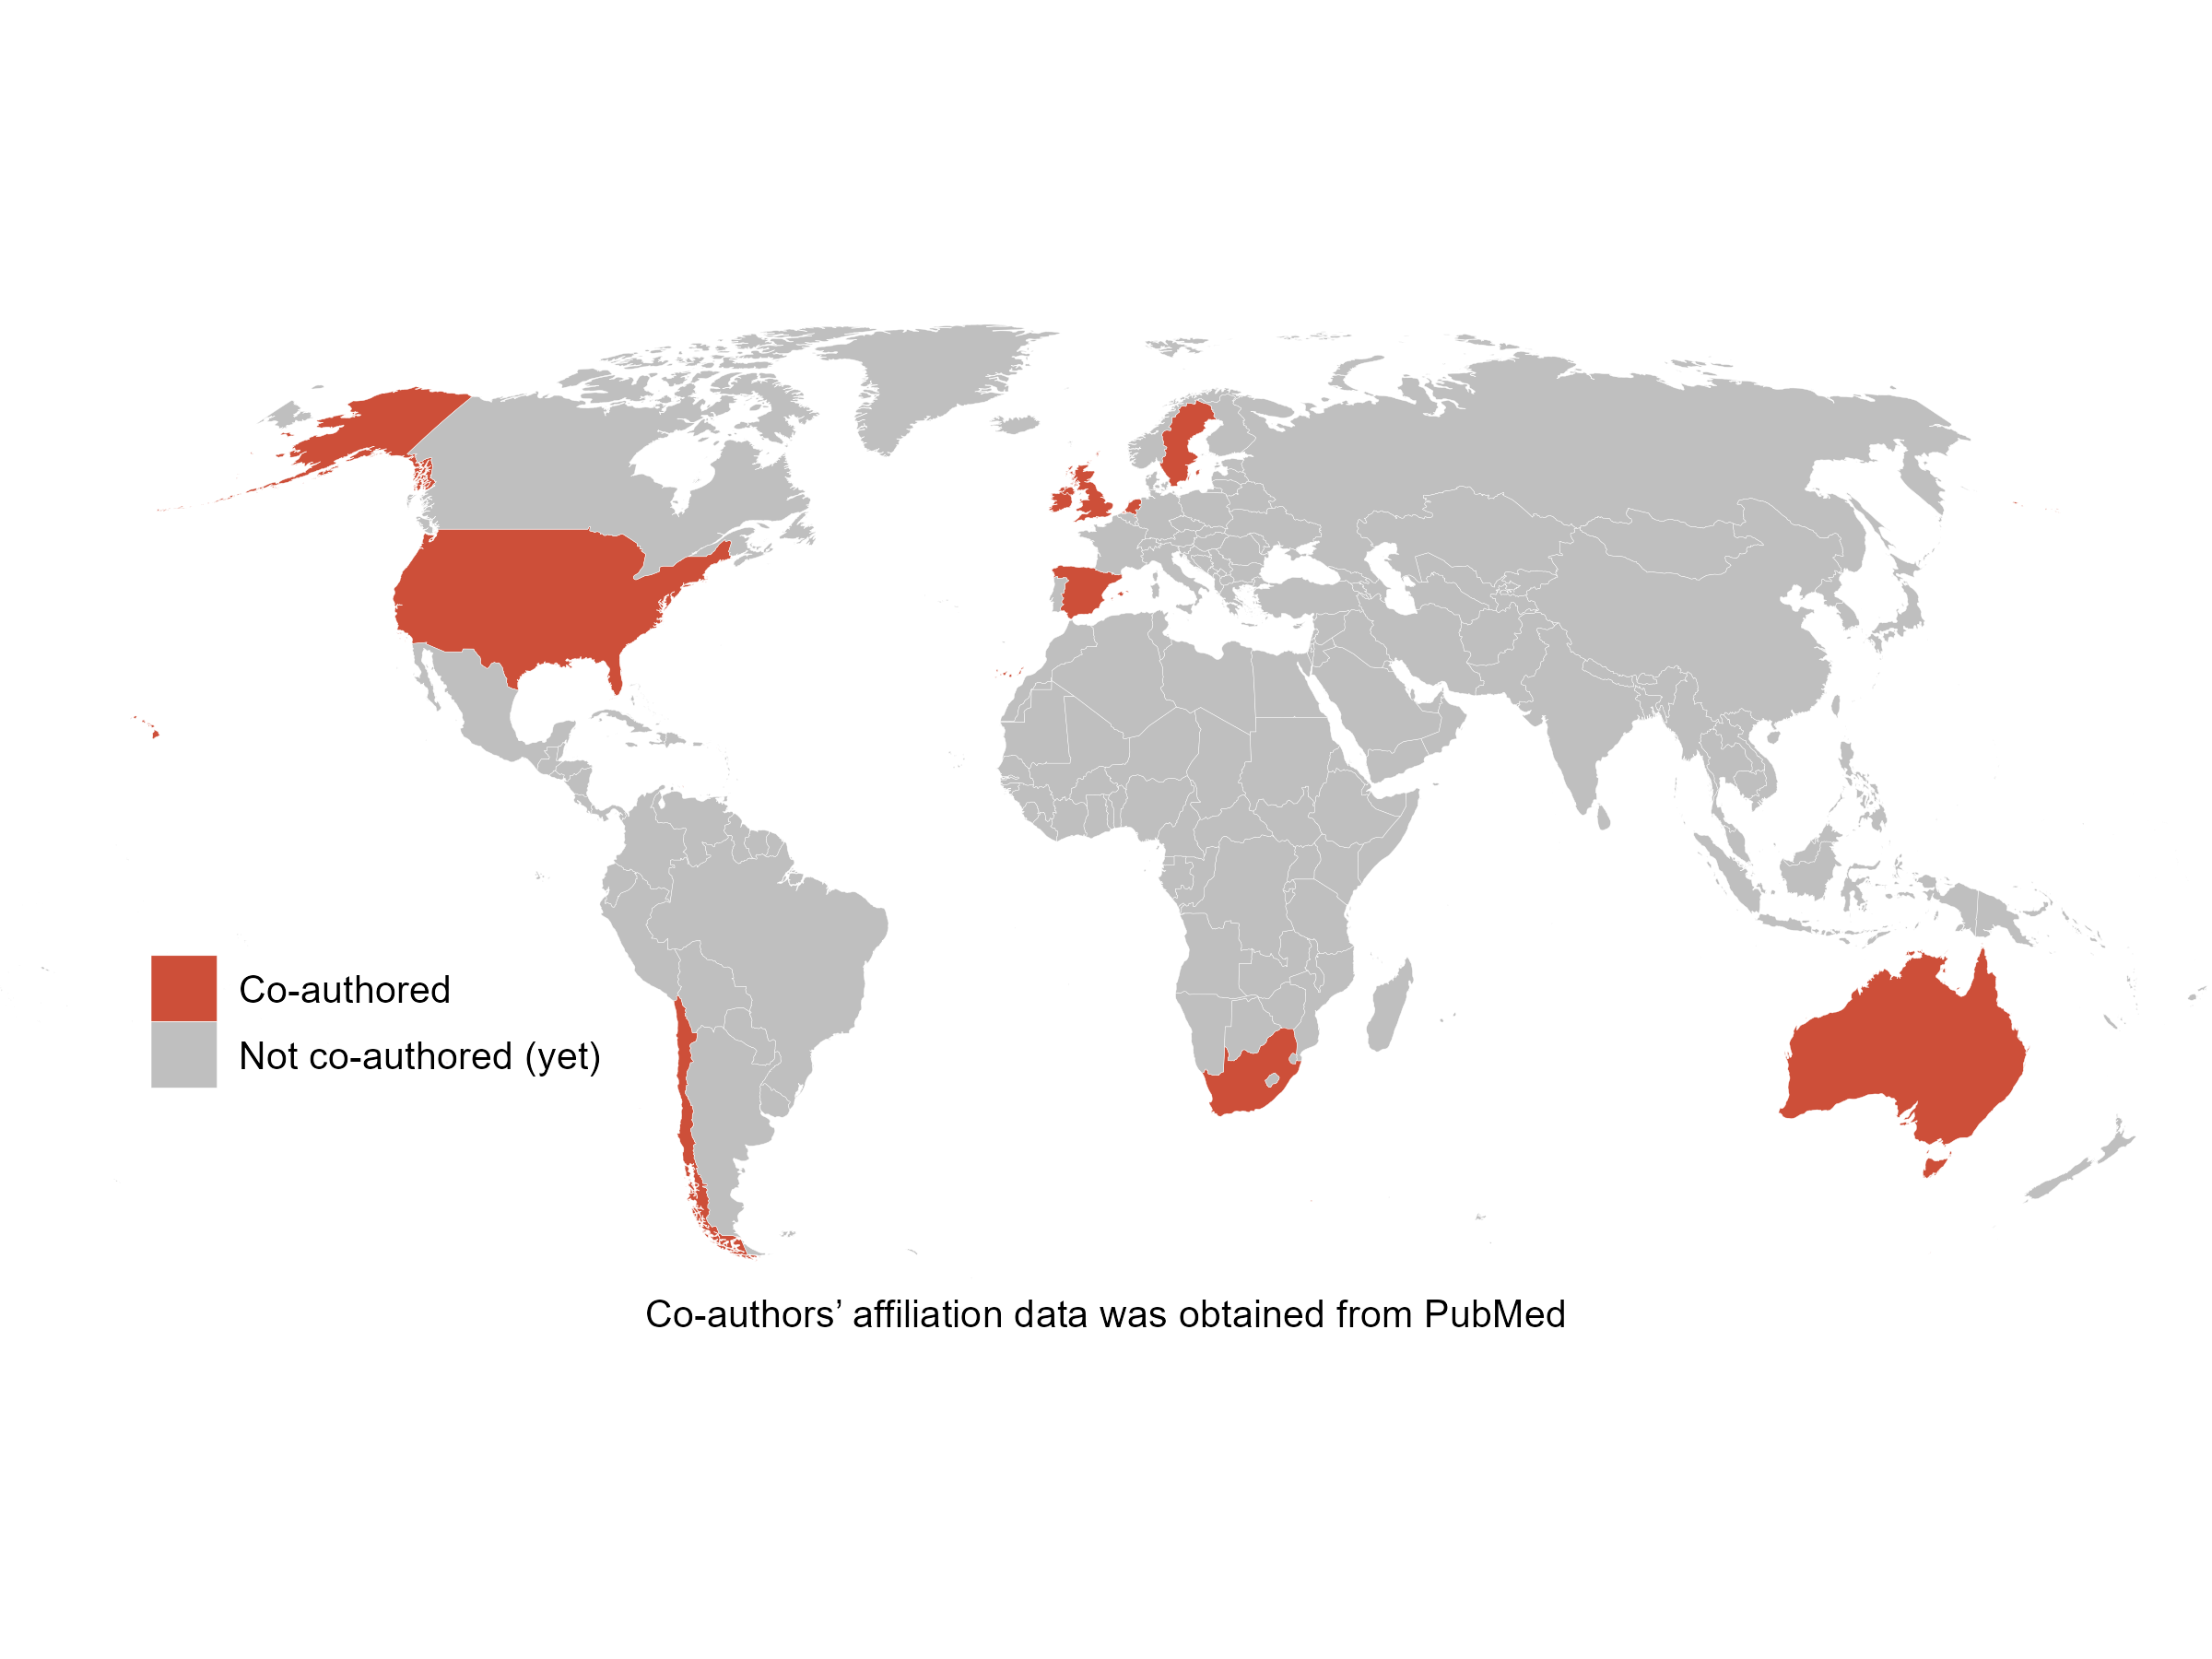
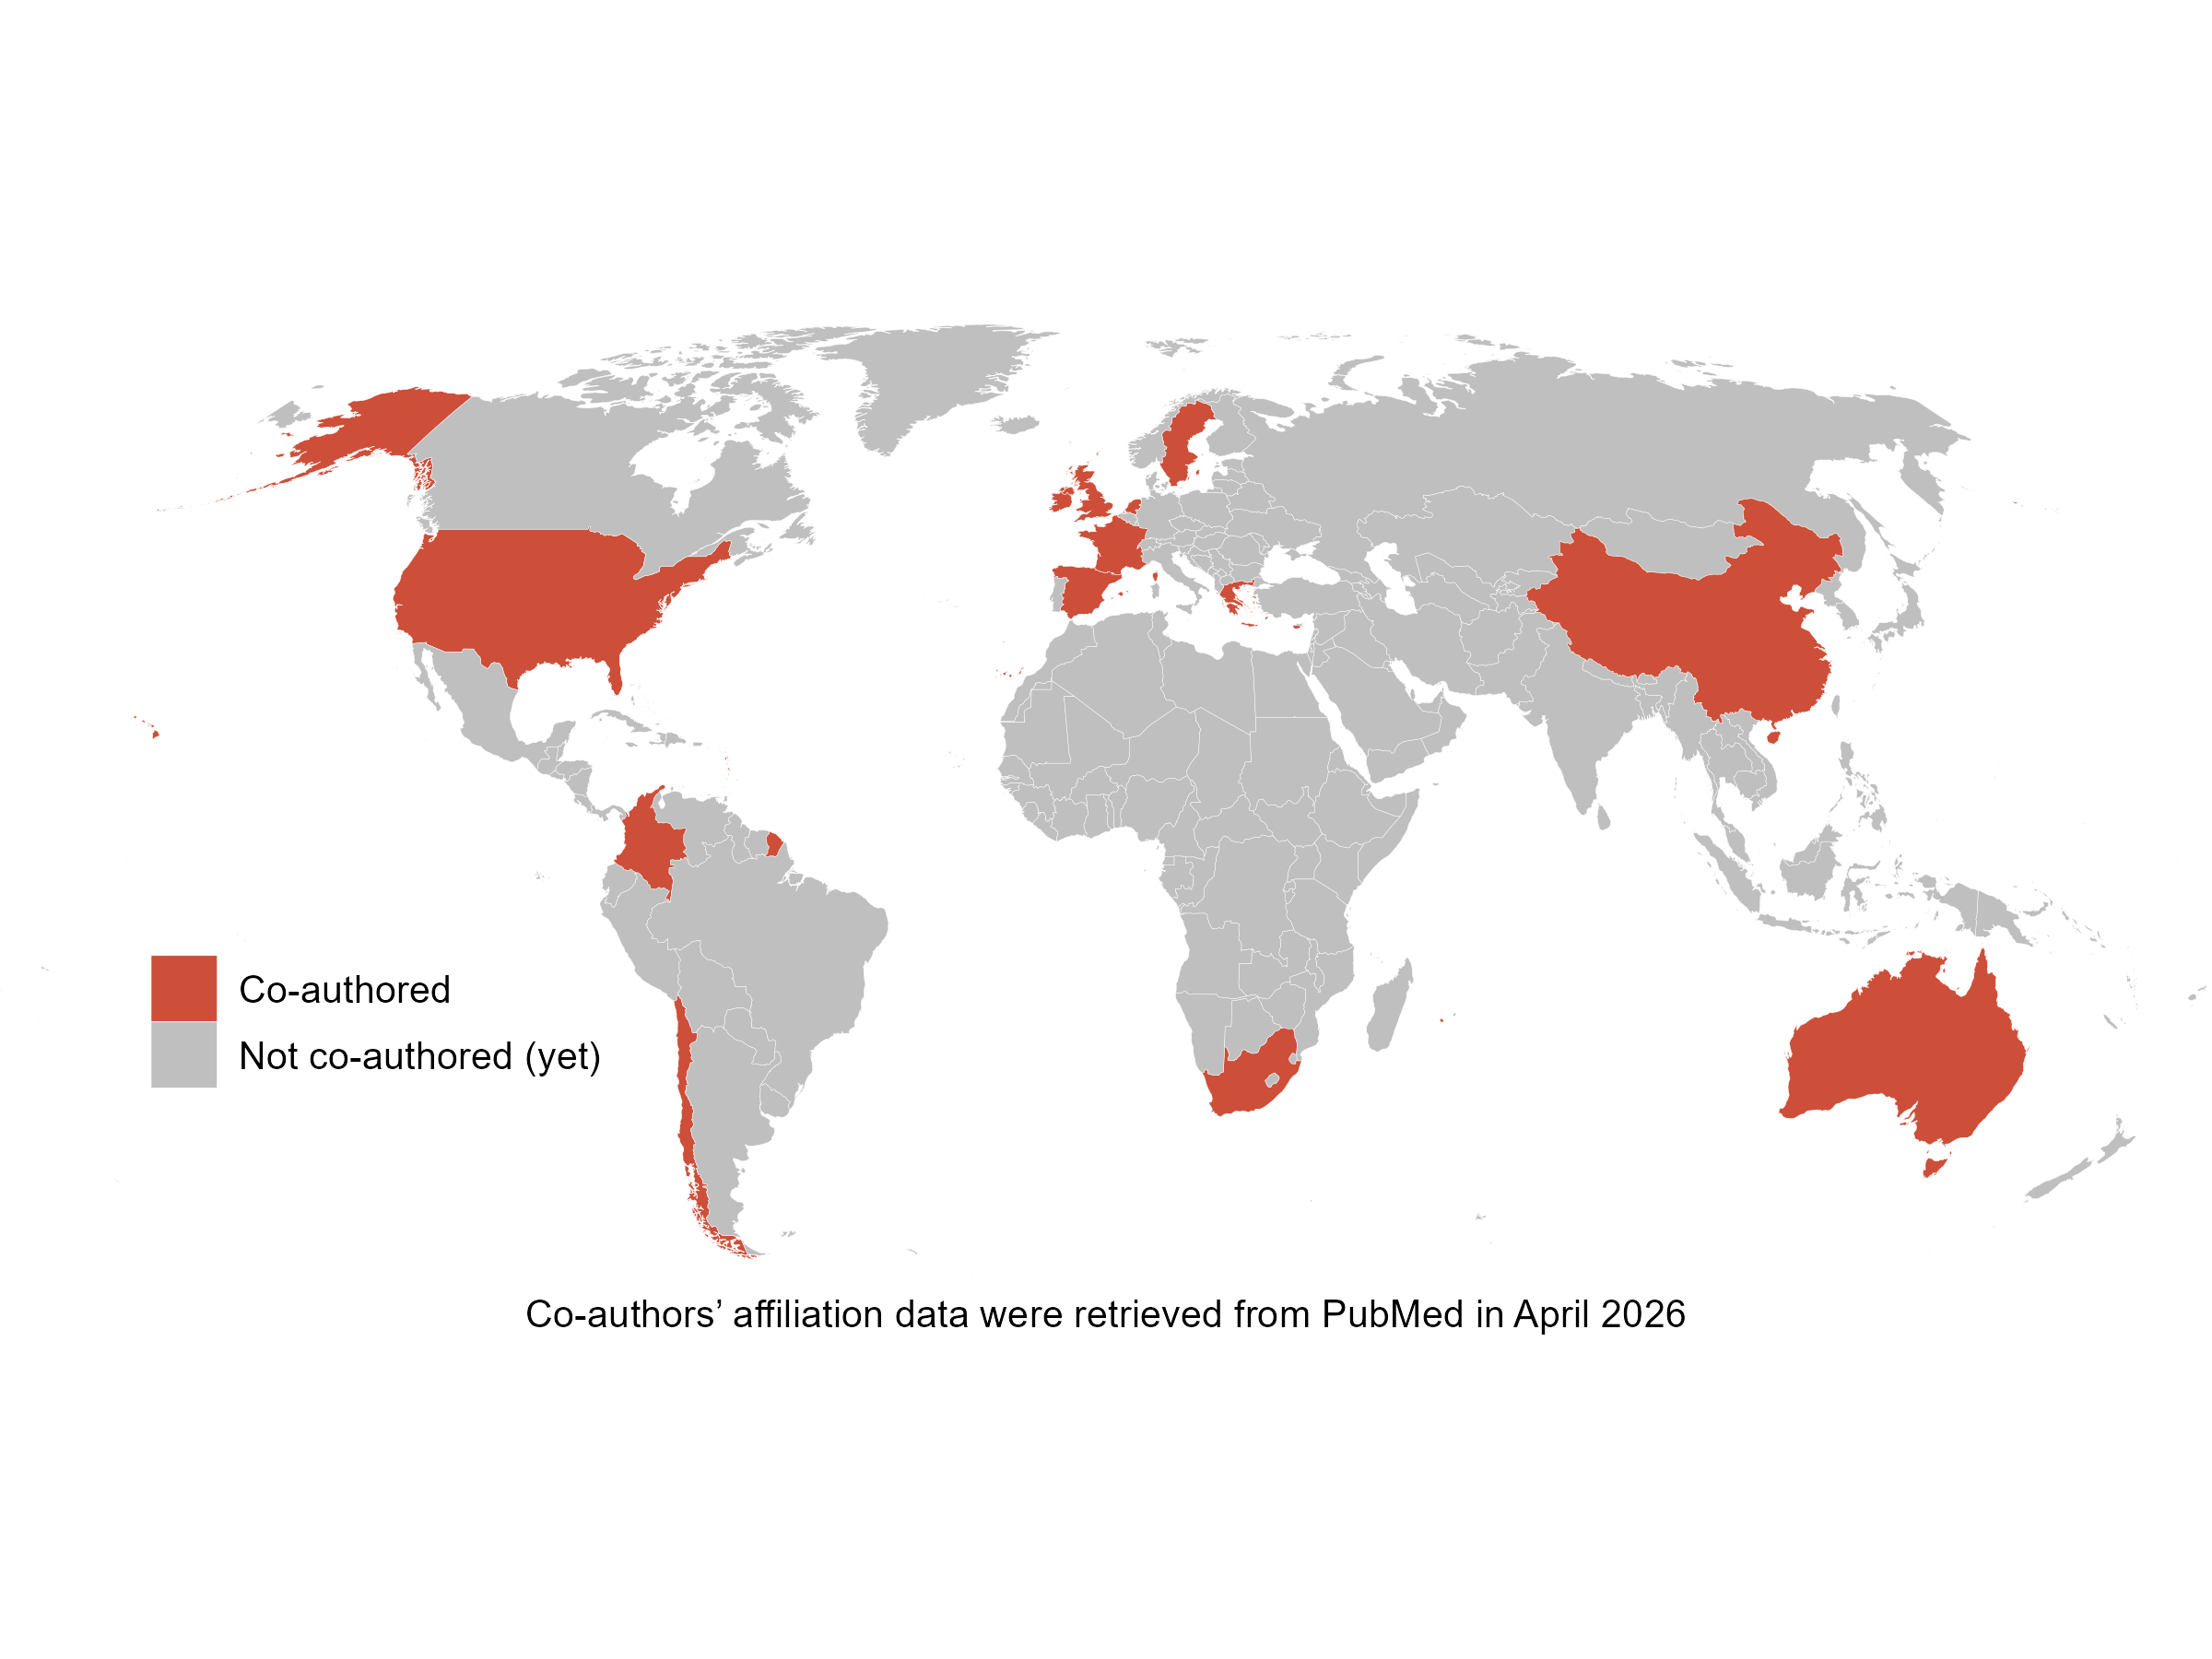
update april 2026

diff --git a/docs/blog.html b/docs/blog.html
@@ -144,8 +144,9 @@ ul.task-list li input[type="checkbox"] {
 </header>
 
 
-<p>I write about Bioinformatics, Gut Microbiome, The Microbiome-Gut-Brain axis and Science in general. I also share some personal thoughts and keep track of my path to becoming something more than just another middle author bioinformatician.</p>
+<p>In <a href="https://bvalderrama.substack.com/">The middle author bioinformatician</a> I write about Bioinformatics, Gut Microbiome, The Microbiome-Gut-Brain axis and Science in general. I also share some personal thoughts and keep track of my path to becoming something more than just another middle author bioinformatician.</p>
 <p><br></p>
+<p>Below you can find some of the posts</p>
 <p><input type="text" id="searchInput" placeholder="Search posts..." style="margin-bottom:20px; padding:8px; width:100%; max-width:800px;"></p>
 <div id="posts-container" class="posts-grid">
 
@@ -168,7 +169,13 @@ const posts = [
     title: "The South American MicroBiome Archive",
     description: "Reading time: 1 min",
     image: "/images/blog_samba.png",
-    link: "https://bvalderrama.substack.com/p/common-limitations-of-gut-microbiome"
+    link: "https://bvalderrama.substack.com/p/the-south-american-microbiome-archive"
+  },
+  {
+    title: "Three Skills for a PhD We Should All Develop",
+    description: "Reading time: 5 mins",
+    image: "/images/blog_phdskills.png",
+    link: "https://bvalderrama.substack.com/p/three-skills-for-a-phd-we-should"
   },
   {
     title: "If I Had to Learn to Code Again ...",

diff --git a/docs/research.html b/docs/research.html
@@ -127,7 +127,7 @@ ul.task-list li input[type="checkbox"] {
   <li><a href="#complete-list-of-publications" id="toc-complete-list-of-publications" class="nav-link active" data-scroll-target="#complete-list-of-publications">Complete list of publications</a></li>
   <li><a href="#selected-publications-in-key-areas" id="toc-selected-publications-in-key-areas" class="nav-link" data-scroll-target="#selected-publications-in-key-areas">Selected publications in key areas</a>
   <ul class="collapse">
-  <li><a href="#microbiome-in-global-populations" id="toc-microbiome-in-global-populations" class="nav-link" data-scroll-target="#microbiome-in-global-populations">1. Microbiome in global populations</a></li>
+  <li><a href="#microbiome-gut-brain-axis-across-global-populations" id="toc-microbiome-gut-brain-axis-across-global-populations" class="nav-link" data-scroll-target="#microbiome-gut-brain-axis-across-global-populations">1. Microbiome-Gut-Brain axis across global populations</a></li>
   <li><a href="#probiotics-and-psychobiotics" id="toc-probiotics-and-psychobiotics" class="nav-link" data-scroll-target="#probiotics-and-psychobiotics">2. Probiotics and Psychobiotics</a></li>
   <li><a href="#microbiome-data-analysis" id="toc-microbiome-data-analysis" class="nav-link" data-scroll-target="#microbiome-data-analysis">3. Microbiome data analysis</a></li>
   </ul></li>
@@ -149,12 +149,13 @@ ul.task-list li input[type="checkbox"] {
 </section>
 <section id="selected-publications-in-key-areas" class="level1">
 <h1>Selected publications in key areas</h1>
-<section id="microbiome-in-global-populations" class="level3">
-<h3 class="anchored" data-anchor-id="microbiome-in-global-populations">1. Microbiome in global populations</h3>
+<section id="microbiome-gut-brain-axis-across-global-populations" class="level3">
+<h3 class="anchored" data-anchor-id="microbiome-gut-brain-axis-across-global-populations">1. Microbiome-Gut-Brain axis across global populations</h3>
 <div class="bullet-list">
 <ul>
 <li><p><a href="https://www.nature.com/articles/s41467-025-62601-4" class="my_bold">The South American MicroBiome Archive (saMBA): enriching the microbiome field by studying neglected populations</a>, (2025), <span class="my_bold">Benjamin Valderrama</span>, Paulina Calderon-Romero, Thomaz FS Bastiaanssen, Aonghus Lavelle, Gerard Clarke, John F Cryan, <span class="my_bold">Nature Communications</span>.</p></li>
-<li><p><a href="https://www.biorxiv.org/content/10.1101/2024.08.08.607034v1.abstract" class="my_bold">The Neuroactive Potential of the Elderly Human Gut Microbiome is Associated with Mental Health Status</a>, (2024), Paulina Calderon-Romero, <span class="my_bold">Benjamin Valderrama</span>, Thomaz Bastiaanssen, Patricia Lillo, Daniela Thumala, Gerard Clarke, John F Cryan, Andrea Slachevsky, Christian Gonzalez-Billault, Felipe A. Court, <span class="my_bold">bioRxiv</span>.</p></li>
+<li><p><a href="https://www.thelancet.com/journals/lanplh/article/PIIS2542-5196(26)00026-4/fulltext" class="my_bold">Global environmental change and the gut-kidney-brain axis: a review and framework of vulnerability and resilience</a>, Shazia Adalat, Konstantinos Giannakou, <span class="my_bold">Benjamin Valderrama</span>, Juan Guillermo Cardenas-Aguilera, Giorgos K Sakkas, Jonathan Overeem, Gaye Hafez, Dearbhla Kelly, Jelena Vulevic, Guohua He, Silvia M Mihaila, Alessandra Tammaro, Burcin Ikiz, Prof John F Cryan, <span class="my_bold">The Lancet Planetary Health</span></p></li>
+<li><p><a href="https://journals.plos.org/plosone/article?id=10.1371/journal.pone.0343493" class="my_bold">The Neuroactive Potential of the Elderly Human Gut Microbiome is Associated with Mental Health Status</a>, (2024), Paulina Calderon-Romero, <span class="my_bold">Benjamin Valderrama</span>, Thomaz Bastiaanssen, Patricia Lillo, Daniela Thumala, Gerard Clarke, John F Cryan, Andrea Slachevsky, Christian Gonzalez-Billault, Felipe A. Court, <span class="my_bold">PLOS One</span>.</p></li>
 </ul>
 </div>
 <hr>

diff --git a/docs/index.html b/docs/index.html
@@ -156,7 +156,7 @@ ul.task-list li input[type="checkbox"] {
 </div>
 <section id="short-bio" class="level1">
 <h1>Short Bio</h1>
-<p>I’m a <span class="my_bold">Computational Biologist</span> <span class="emoji" data-emoji="computer">💻</span><span class="emoji" data-emoji="dna">🧬</span> with seven years of research experience distilling key biological insight from large and complex multidimensional datasets. I’ve held positions in Academia, Industry and their interface. I’ve also worked as a consultant and analyst for academic research groups.</p>
+<p>I’m a <span class="my_bold">Computational Biologist</span> <span class="emoji" data-emoji="computer">💻</span><span class="emoji" data-emoji="dna">🧬</span> with seven years of research experience distilling biological insight from large and complex multidimensional datasets. I’ve worked across academia, industry and at their interface, as well as serving as a consultant and analyst for academic research groups.</p>
 <p>I’m currently doing my PhD, where I focus on the balanced integration of global-scale microbiome datasets with biologically-grounded analytical approaches to unravel the complexity of the <span class="my_bold">microbiome-gut-brain axis</span>. My work is supervised by Professors John F. Cryan and Gerard Clarke at the APC microbiome Ireland.</p>
 <p>In my daily life I like reading books (mostly non-fiction), hiking, drinking coffee and doing 3D design and printing.</p>
 </section>
@@ -164,7 +164,7 @@ ul.task-list li input[type="checkbox"] {
 <h1>Areas of research</h1>
 <div class="bullet-list">
 <ul>
-<li>Large-scale analyses of the microbiome-gut-brain axis across global populations.</li>
+<li>Microbiome-gut-brain axis across global populations.</li>
 <li>Microbiome’s modulation of gut barrier integrity and its effects on gut-brain health.</li>
 <li>Development of Probiotics and Psychobiotics.</li>
 </ul>